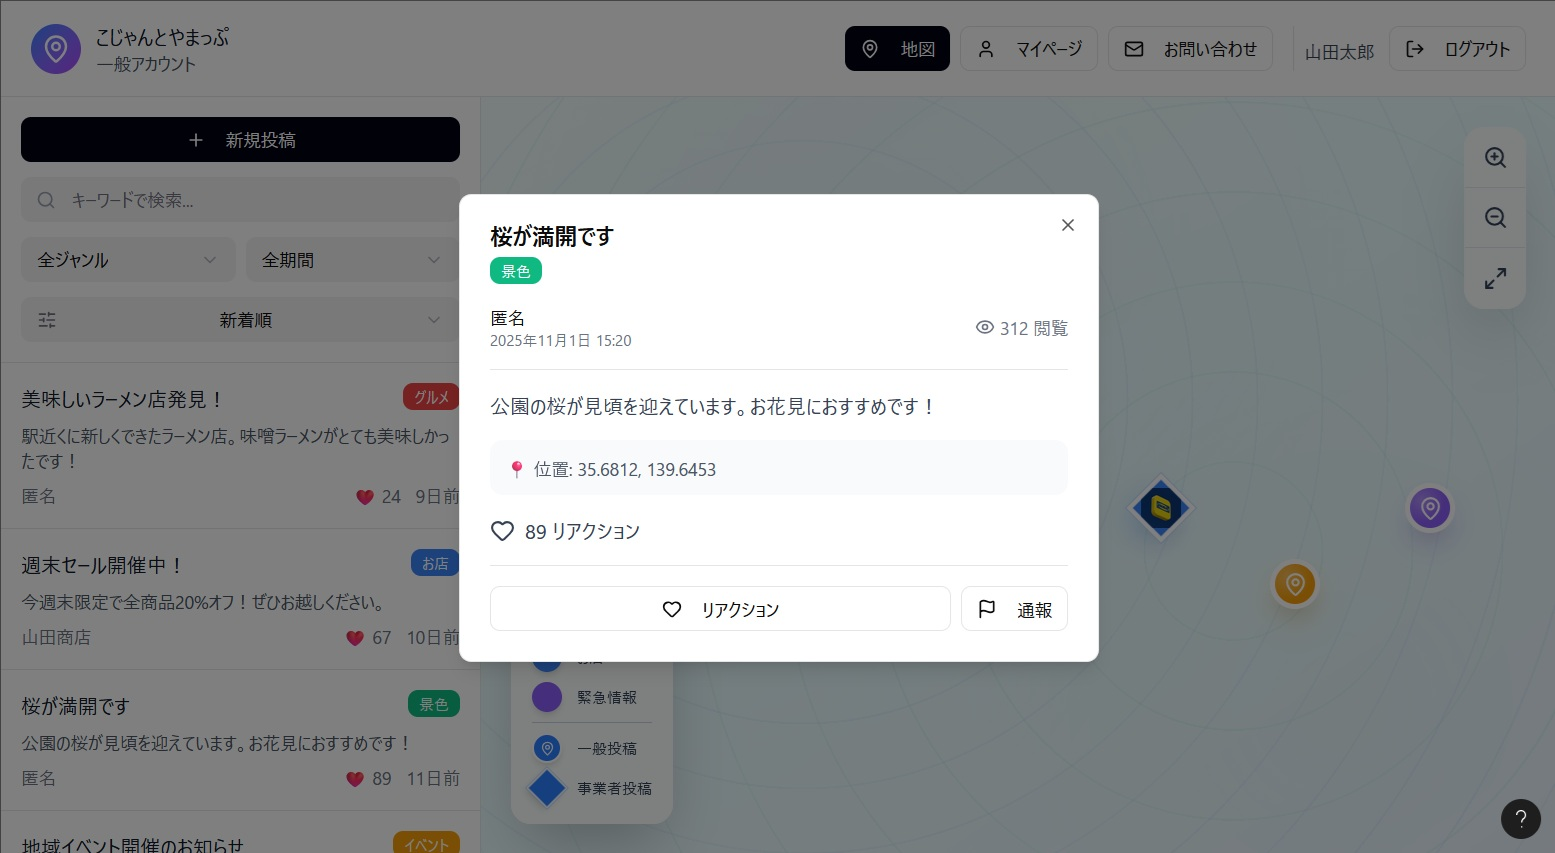
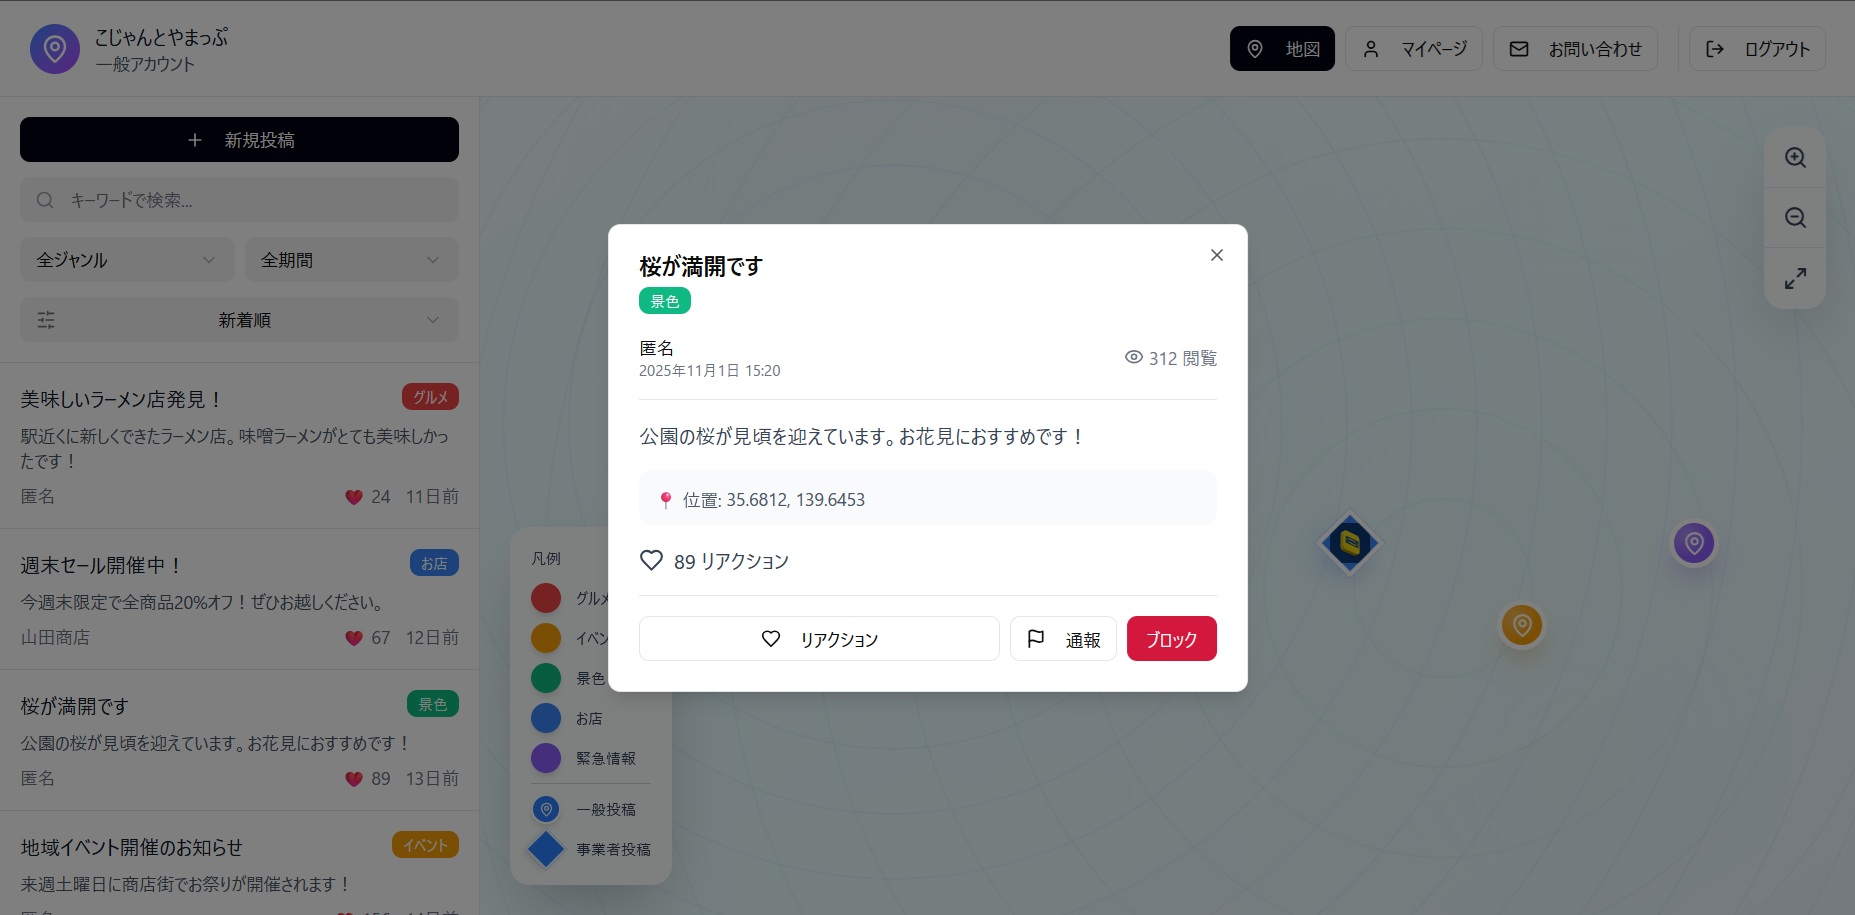
feat:ブロック機能の追加
ブロック機能を追加したため文章と画像を対応するように変更した

diff --git a/sections/section6.tex b/sections/section6.tex
@@ -70,7 +70,7 @@
 
 \subsubsection{投稿閲覧画面}
 投稿閲覧画面では，一般会員が利用者の投稿を閲覧することができる．
-閲覧できる内容は図\ref{view_posts}のように，タイトル，ジャンル，投稿者（投稿者が一般会員なら匿名，事業者会員なら事業者会員の名前），投稿日時，閲覧数，説明，投稿場所の座標，リアクション数である．また，一般会員はリアクションをすることができる．
+閲覧できる内容は図\ref{view_posts}のように，タイトル，ジャンル，投稿者（投稿者が一般会員なら匿名，事業者会員なら事業者会員の名前），投稿日時，閲覧数，説明，投稿場所の座標，リアクション数である．また，一般会員はリアクションとブロックをすることができる．
 
 \begin{figure}[H]
     \centering
